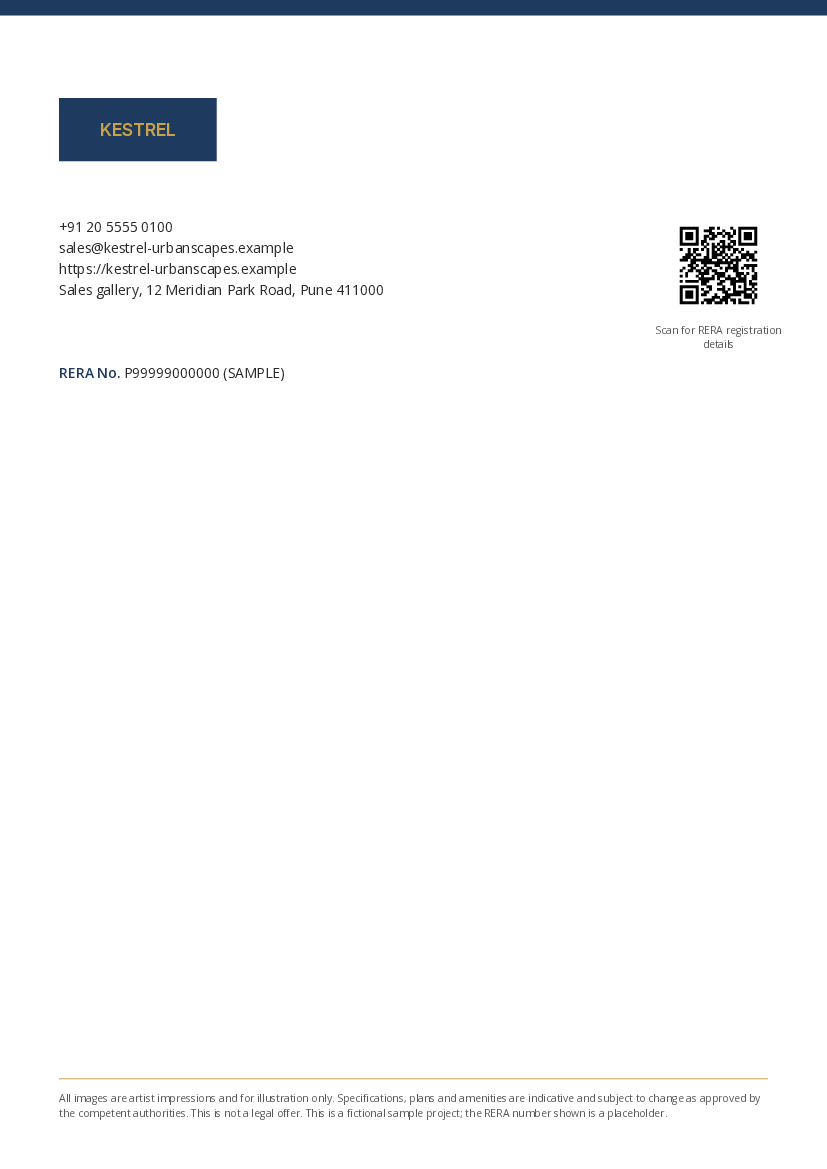
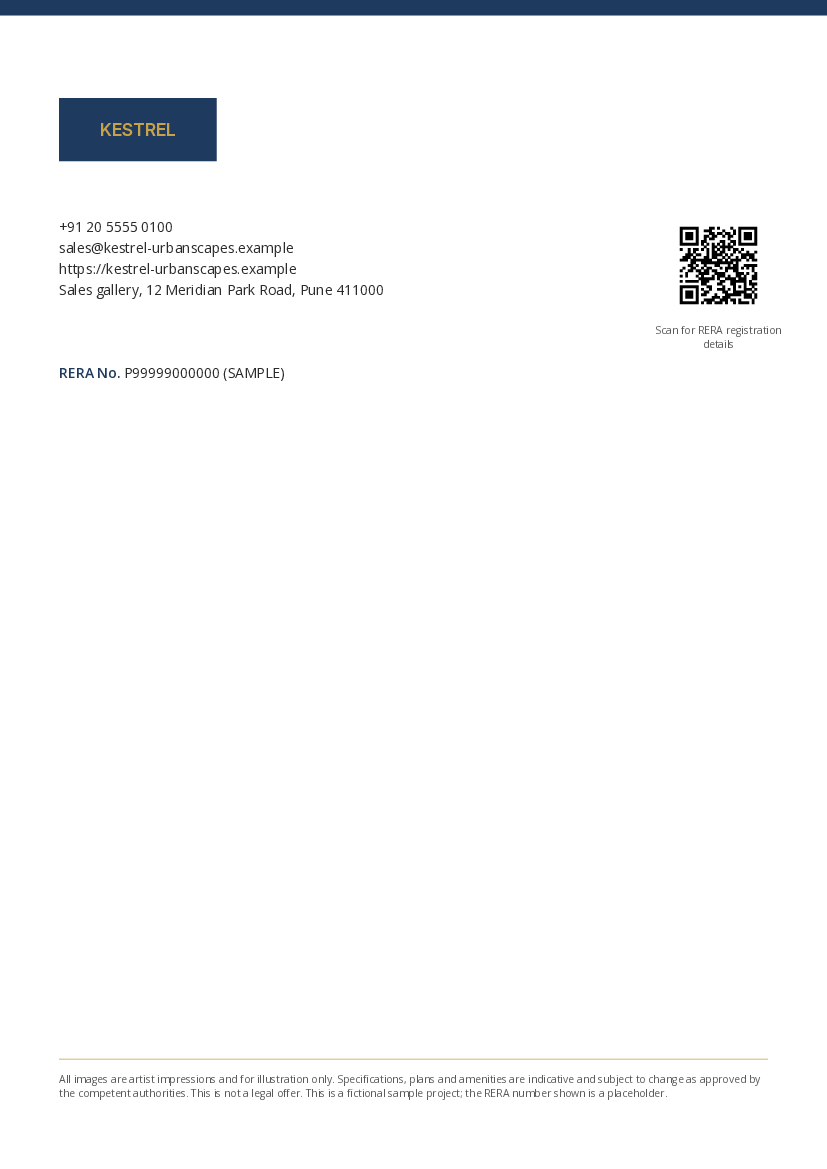
classic-8pp: every text slot fits its full char budget; Copywriter budgets lowered, verbatim heights raised, pages re-flowed

Changed region(s): [[0.0605, 0.8931, 0.9069, 0.9547]]

diff --git a/templates/classic-8pp/brochure.css b/templates/classic-8pp/brochure.css
@@ -60,9 +60,9 @@ body {
 .prefix { font-weight: 600; color: var(--primary); }
 
 /* Per-slot adjustments */
-#slot-cover_title { color: #ffffff; }
+#slot-cover_title { color: #ffffff; display: flex; flex-direction: column; justify-content: flex-end; }
 #slot-cover_tagline { color: var(--accent); font-weight: 400; }
 #slot-cover_rera_line { color: #e6e9ef; }
-#slot-overview_highlights ul, #slot-amenities_list ul { columns: 2; column-gap: 8mm; }
+#slot-overview_highlights ul, #slot-amenities_list ul, #slot-location_landmarks ul { columns: 2; column-gap: 8mm; }
 #slot-static-qr-label { text-align: center; }
 #slot-disclaimer p { border-top: 0.5pt solid var(--accent); padding-top: 3mm; }  /* between the marks, so it is measured */

diff --git a/tests/unit/test_agent_copywriter.py b/tests/unit/test_agent_copywriter.py
@@ -16,8 +16,8 @@ from tests.support import GOOD_COPY as GOOD, qa_issue, sample_state
 ROOT = Path(__file__).parents[2]
 TEMPLATE = load_sample_data().template
 OWNED = {
-    "cover_tagline": 90, "overview_headline": 60, "overview_intro": 600, "overview_highlights": 240,
-    "amenities_blurb": 250, "plan_note": 160, "about_headline": 60,
+    "cover_tagline": 70, "overview_headline": 50, "overview_intro": 310, "overview_highlights": 120,
+    "amenities_blurb": 100, "plan_note": 140, "about_headline": 50,
 }
 
 def inputs(**changes) -> CopyInputs:
@@ -147,7 +147,7 @@ def play(*answers, **changes):
     return copywriter_agent(inputs(**changes), llm), llm
 
 
-TOO_LONG = "A" * 91  # cover_tagline has 90 characters
+TOO_LONG = "A" * 71  # cover_tagline has 70 characters
 
 
 def test_an_over_budget_slot_is_asked_for_again_and_the_second_text_is_used():
@@ -178,7 +178,7 @@ def test_the_second_call_sends_only_the_failing_slots_with_the_reason_for_each_a
     assert set(second["problems"]) == {"plan_note"}  # wrong in content: written again with the reason
     assert "empty" in second["problems"]["plan_note"]
     assert set(second["shorten"]) == {"cover_tagline"}  # only too long: edited, with its previous text
-    assert "91" in second["shorten"]["cover_tagline"]["problem"] and "90" in second["shorten"]["cover_tagline"]["problem"]
+    assert "71" in second["shorten"]["cover_tagline"]["problem"] and "70" in second["shorten"]["cover_tagline"]["problem"]
     assert {k: v for k, v in second.items() if k not in ("slots", "problems", "shorten")} == {k: v for k, v in first.items() if k != "slots"}
 
 
@@ -209,7 +209,7 @@ def test_a_slot_that_fails_twice_is_left_out_and_exactly_one_warning_says_which_
     assert len(llm.calls) == 2  # asked once more, not again
     assert set(copy) == set(OWNED) - {"cover_tagline"}
     (message,) = warnings(caplog)
-    assert "cover_tagline" in message and "91 characters, the limit is 90" in message
+    assert "cover_tagline" in message and "71 characters, the limit is 70" in message
 
 
 def test_several_slots_that_fail_twice_share_one_warning(caplog):
@@ -224,7 +224,7 @@ def test_several_slots_that_fail_twice_share_one_warning(caplog):
 def test_the_reason_in_the_warning_is_the_one_from_the_second_attempt(caplog):
     play({**GOOD, "cover_tagline": TOO_LONG}, {**GOOD, "cover_tagline": "Heights in Zorbaville"})
     (message,) = warnings(caplog)
-    assert "Zorbaville" in message and "91 characters" not in message
+    assert "Zorbaville" in message and "71 characters" not in message
 
 
 def test_no_warning_when_every_slot_passes(caplog):
@@ -252,7 +252,7 @@ def test_a_client_error_on_the_second_call_keeps_the_slots_that_passed_and_one_w
     copy, llm = play({**GOOD, "cover_tagline": TOO_LONG}, LLMRateLimited("rate limit"))
     assert copy == {k: v for k, v in GOOD.items() if k != "cover_tagline"}
     (message,) = warnings(caplog)
-    assert "cover_tagline" in message and "91 characters" in message and "rate limit" in message
+    assert "cover_tagline" in message and "71 characters" in message and "rate limit" in message
     assert "plan_note" not in message  # it passed
 
 
@@ -406,7 +406,7 @@ def test_two_bad_replies_to_the_second_attempt_keep_what_passed_and_leave_the_re
     assert len(llm.calls) == 3
     assert copy == {k: v for k, v in GOOD.items() if k != "cover_tagline"}
     (message,) = warnings(caplog)
-    assert "cover_tagline" in message and "91 characters" in message and "again" in message
+    assert "cover_tagline" in message and "71 characters" in message and "again" in message
 
 
 def test_only_a_bad_reply_is_asked_again_a_rate_limit_or_http_error_is_not():
@@ -421,8 +421,8 @@ def test_the_prompt_explains_previous_error():
 
 # --- word limits in the payload -------------------------------------------------------------------------------------------
 
-MAX_WORDS = {"cover_tagline": 12, "overview_headline": 8, "overview_intro": 85, "overview_highlights": 34,
-             "amenities_blurb": 35, "plan_note": 22, "about_headline": 8}
+MAX_WORDS = {"cover_tagline": 10, "overview_headline": 7, "overview_intro": 44, "overview_highlights": 17,
+             "amenities_blurb": 14, "plan_note": 20, "about_headline": 7}
 
 
 def test_each_slot_is_sent_with_max_words_derived_from_its_char_budget():
@@ -454,7 +454,7 @@ def test_a_slot_that_fails_only_on_length_is_sent_back_with_its_previous_text_to
     _, llm = play({**GOOD, "cover_tagline": TOO_LONG}, GOOD)
     second = llm.calls[1][1]
     assert second["shorten"] == {"cover_tagline": {"previous_text": TOO_LONG, "problem": second["shorten"]["cover_tagline"]["problem"]}}
-    assert "91 characters" in second["shorten"]["cover_tagline"]["problem"]
+    assert "71 characters" in second["shorten"]["cover_tagline"]["problem"]
     assert "problems" not in second
     assert [s["id"] for s in second["slots"]] == ["cover_tagline"]
 
@@ -499,7 +499,7 @@ def test_a_slot_still_over_budget_after_the_retry_is_trimmed_to_whole_sentences_
     copy, llm = play({**GOOD, "overview_intro": long_intro(8)}, {**GOOD, "overview_intro": long_intro(12)})
     trimmed = copy["overview_intro"]
     assert len(llm.calls) == 2
-    assert trimmed == expected_trim(12) and len(trimmed) <= 600 < len(trimmed + " " + SENTENCE)
+    assert trimmed == expected_trim(12) and len(trimmed) <= 310 < len(trimmed + " " + SENTENCE)
     assert trimmed.endswith(".")
     assert warnings(caplog) == []
     assert any("trimmed slot overview_intro" in r.getMessage() and r.levelno == logging.INFO for r in caplog.records)

diff --git a/tests/integration/test_full_budget_fit.py b/tests/integration/test_full_budget_fit.py
@@ -1,0 +1,75 @@
+"""Every text slot's height fits its full char_budget: filler of exactly char_budget characters, rendered with the real
+fonts and template and measured with the same marks as the overflow check."""
+import importlib
+import math
+from pathlib import Path
+
+import pytest
+
+from brochure.contracts.spec import BrochureSpec, PageSpec, SlotFill
+from brochure.pipeline.stubs import load_sample_data
+from brochure.print_config import PRINT
+from brochure.render.html import PX_PER_MM, build_html, load_template
+from tests.support import filler_text, sample_state
+
+pytestmark = pytest.mark.integration
+
+ROOT = Path(__file__).parents[2]
+TEMPLATE = load_sample_data().template
+TEXT_SLOTS = [s.id for s in TEMPLATE.slots if s.type == "text"]
+# Slots written line by line, at the average line length of the sample: (characters per line, label of each line).
+LINED = {
+    "overview_highlights": (30, ""),
+    "location_landmarks": (29, ""),
+    "amenities_list": (16, ""),
+    "config_table": (23, ""),
+    "specs_list": (49, "Flooring: "),
+    "contact_block": (33, ""),
+}
+
+
+def full_budget_text(slot_id: str, chars: int) -> str:
+    line, label = LINED.get(slot_id, (None, ""))
+    return filler_text(chars, line, label)
+
+
+def measured(page_anchors: list[dict], slot_id: str) -> float:
+    """The slot's text height in mm, from its marks; infinite when the text ran off its page, which loses the end mark."""
+    for anchors in page_anchors:
+        start, end = anchors.get(f"start-{slot_id}"), anchors.get(f"end-{slot_id}")
+        if start is not None:
+            return (end[1] - start[1]) / PX_PER_MM if end is not None else math.inf
+    return math.inf
+
+
+def full_budget_heights(budgets: dict[str, int] | None = None) -> dict[str, float]:
+    """slot id -> measured mm of each text slot filled to its char_budget (or to the budget given here)."""
+    from weasyprint import HTML
+
+    state = sample_state()
+    template = load_template("classic-8pp")
+    pages = []
+    for number in range(1, 9):
+        slots = {s.id: SlotFill(text=full_budget_text(s.id, (budgets or {}).get(s.id, s.char_budget)))
+                 for s in template.slots.slots if s.page == number and s.type == "text"}
+        pages.append(PageSpec(layout_id=f"p{number}", slots=slots))
+    spec = BrochureSpec(template_id="classic-8pp", pages=pages)
+    html = build_html(spec, state.brand_kit, [], ROOT / "sample" / "images", brand_dir=ROOT / "sample")
+    anchors = [p.anchors for p in HTML(string=html, base_url=str(template.directory)).render().pages]
+    return {slot_id: measured(anchors, slot_id) for slot_id in TEXT_SLOTS}
+
+
+@pytest.fixture(scope="module")
+def heights():
+    try:
+        importlib.import_module("weasyprint")
+    except Exception as exc:  # ModuleNotFoundError, or OSError when the Pango libraries are missing
+        pytest.skip(f"WeasyPrint is not importable ({type(exc).__name__}). Run `brochure doctor` for the fix.")
+    return full_budget_heights()
+
+
+@pytest.mark.parametrize("slot_id", TEXT_SLOTS)
+def test_full_budget_text_fits_the_slot(heights, slot_id):
+    slot = TEMPLATE.get(slot_id)
+    assert heights[slot_id] <= slot.height_mm + PRINT.text_overflow_tolerance_mm, (
+        f"{slot.char_budget} characters are {heights[slot_id]:.1f} mm tall in a {slot.height_mm:g} mm slot")

diff --git a/tests/support.py b/tests/support.py
@@ -89,8 +89,8 @@ GOOD_COPY = {
     "overview_intro": "Aurelia Heights is a pair of residential towers in Pune with 2 and 3 BHK homes. The towers stand around a "
     "landscaped podium garden, and the plans put living rooms and bedrooms on the sides with the most daylight. The metro "
     "station, schools and a hospital are close by, so the daily routine stays short.",
-    "overview_highlights": "Two towers of 2 and 3 BHK homes\nLandscaped podium garden\n1.2 km from Meridian Metro Station\nSchools and a hospital nearby",
-    "amenities_blurb": "From the infinity pool to the co-working lounge, every amenity is planned for daily use rather than for show.",
+    "overview_highlights": "Two towers, 2 and 3 BHK homes\nLandscaped podium garden\n1.2 km from Meridian Metro Station\nSchools and a hospital nearby",
+    "amenities_blurb": "From the infinity pool to the co-working lounge, every amenity is planned for daily use.",
     "plan_note": "Areas shown are carpet areas. Furniture in the plans is indicative only.",
     "about_headline": "About Kestrel Urbanscapes",
 }
@@ -103,3 +103,33 @@ def _stub_renderer(state, llm):
 
 
 STUB_RENDERER = _stub_renderer  # for graph tests of real_agents() that must not need WeasyPrint
+
+
+_FILLER_WORDS = (
+    "the towers stand around a landscaped podium garden and the plans put living rooms and bedrooms on the sides with "
+    "the most daylight while the metro station schools and a hospital are close by so homes here suit families who want "
+    "green space and calm streets near the city"
+).split()
+
+
+def _filler_words(chars: int, start: int = 0) -> str:
+    """Exactly `chars` characters of ordinary words, with no space at either end."""
+    words = _FILLER_WORDS[start % len(_FILLER_WORDS):] + _FILLER_WORDS * (chars // 20 + 1)
+    text = " ".join(words)[:chars]
+    return text[:-1] + "s" if text.endswith(" ") else text
+
+
+def filler_text(chars: int, line_chars: int | None = None, label: str = "") -> str:
+    """Filler of exactly `chars` characters, newlines included: running text, or with line_chars, lines of that length
+    (the last may be shorter), each starting with `label` if given."""
+    if line_chars is None:
+        return _filler_words(chars)
+    lines, left = [], chars
+    while left > 0:
+        take = min(line_chars, left)
+        if left - take == 1:  # no room for a line after the newline
+            take = left
+        head = label if take > len(label) + 1 else ""
+        lines.append(head + _filler_words(take - len(head), start=len(lines) * 3))
+        left -= take + 1
+    return "\n".join(lines)

diff --git a/tests/unit/test_filler_text.py b/tests/unit/test_filler_text.py
@@ -1,0 +1,29 @@
+"""The filler the full-budget test renders: exact length, realistic words and lines."""
+import pytest
+
+from tests.support import filler_text
+
+
+@pytest.mark.parametrize("chars", [1, 2, 15, 40, 60, 599, 600, 1000])
+def test_running_filler_has_exactly_the_length_asked_for_and_no_space_at_its_ends(chars):
+    text = filler_text(chars)
+    assert len(text) == chars and text == text.strip() and "\n" not in text
+
+
+@pytest.mark.parametrize("chars, line", [(400, 29), (300, 16), (400, 23), (240, 30), (31, 15), (32, 15), (33, 15)])
+def test_lined_filler_counts_its_newlines_and_every_line_has_text(chars, line):
+    text = filler_text(chars, line)
+    lines = text.split("\n")
+    assert len(text) == chars
+    assert all(ln.strip() and ln == ln.strip() for ln in lines)
+    assert all(len(ln) == line for ln in lines[:-1]) and len(lines[-1]) <= line + 1
+
+
+def test_a_label_starts_each_line_and_is_counted():
+    text = filler_text(700, 49, label="Flooring: ")
+    assert len(text) == 700
+    assert all(ln.startswith("Flooring: ") for ln in text.split("\n"))
+
+
+def test_the_lines_are_not_all_the_same_words():
+    assert len(set(filler_text(400, 29).split("\n"))) > 5

diff --git a/tests/integration/test_render_brochure.py b/tests/integration/test_render_brochure.py
@@ -10,6 +10,7 @@ import pytest
 from PIL import Image
 from pypdf import PdfReader
 
+from brochure.agents.copywriter import owned_slots
 from brochure.contracts.manifest import ImageManifest
 from brochure.doctor import find_ghostscript
 from brochure.layout import load_layout_rules
@@ -222,10 +223,12 @@ def laid_out(sample, images):
     return template, anchors, text_heights(anchors, spec, template.slots)
 
 
-def test_no_text_slot_of_the_sample_is_under_60_percent_full(laid_out):
+def test_no_copywriter_slot_of_the_sample_is_under_60_percent_full(laid_out):
+    # Verbatim slots are not checked: their heights fit their full budgets (test_full_budget_fit.py), not the sample.
     template, _, heights = laid_out
-    assert heights
-    fill = {sid: h / template.slots.get(sid).height_mm for sid, h in heights.items()}
+    owned = {s.id for s in owned_slots(template.slots)}
+    assert owned <= set(heights)
+    fill = {sid: heights[sid] / template.slots.get(sid).height_mm for sid in owned}
     assert {sid: round(f, 2) for sid, f in fill.items() if f < 0.6} == {}
 
 

diff --git a/README.md b/README.md
@@ -177,7 +177,7 @@ the copywriter. Facts are strict, wording is free.
 
 | Written by the Copywriter (char budget) | Filled by code from the facts and the brand kit (char budget) |
 |---|---|
-| `cover_tagline` (90, 12 words), `overview_headline` (60, 8), `overview_intro` (600, 85), `overview_highlights` (240, 34), `amenities_blurb` (250, 35), `plan_note` (160, 22), `about_headline` (60, 8) | `cover_title` (40; the project name), `cover_rera_line` (60), `rera_number` (60), `location_address` (120), `location_landmarks` (400), `amenities_list` (300), `config_table` (400), `specs_list` (700), `about_text` (450), `contact_block` (200), `disclaimer` (500) |
+| `cover_tagline` (70, 10 words), `overview_headline` (50, 7), `overview_intro` (310, 44), `overview_highlights` (120, 17), `amenities_blurb` (100, 14), `plan_note` (140, 20), `about_headline` (50, 7) | `cover_title` (40; the project name), `cover_rera_line` (60), `rera_number` (60), `location_address` (120), `location_landmarks` (400), `amenities_list` (300), `config_table` (400), `specs_list` (700), `about_text` (450), `contact_block` (200), `disclaimer` (500) |
 
 The pipeline step (`pipeline/real.py`) returns the verbatim slots plus whatever the Copywriter wrote as `slot_copy`.
 
@@ -553,13 +553,19 @@ first and second colours are used. Brand colours and font families reach the CSS
   a light background. On an edge that bleeds, the caption sits 13 mm in from the drawn edge (bleed + safe margin).
 - An image slot the layout left unfilled: a light neutral frame with "Image needed".
 - Text: newlines become line breaks; `list` slots become one list item per line (two columns for
-  `overview_highlights` and `amenities_list`; in `specs_list` the text before ": " is set as a label). `rera_number`
+  `overview_highlights`, `amenities_list` and `location_landmarks`; in `specs_list` the text before ": " is set as a label). `rera_number`
   is printed after "RERA No.". Text boxes never clip.
 - Logos: the brand kit's `logo_path` (SVG or PNG, relative to `brand_dir`, the `sample/` folder in the pipeline) when
   the file exists, otherwise the company name in the heading font. Text inside an SVG logo must name a bundled family,
   or WeasyPrint embeds a system font; the sample logo's text is set in Inter.
 - QR: the `qrcode` package, vector SVG (one path, no raster), error correction M, quiet zone of 4 modules, at the
   slot's 25 mm.
+
+**Every text slot fits its full `char_budget`.** `tests/integration/test_full_budget_fit.py` fills each text slot with
+filler of exactly `char_budget` characters (realistic words; list slots and `contact_block` in lines of the sample's
+average length), renders it with the real fonts and template, and asserts no overflow. So the budget of a Copywriter
+slot is what fits its height, and the height of a verbatim slot is what fits its budget. `location_landmarks` is set in two
+columns so its full budget fits on page 3. A one-line `cover_title` sits at the foot of its slot, on the tagline.
 
 **Text overflow.** WeasyPrint's public `Page.anchors` gives the position of every element with an `id`. Each text slot
 holds an empty start mark and end mark; the distance between them is the height of its text. Text taller than the slot
@@ -590,7 +596,7 @@ sample and check the page count, every page's boxes, that only Inter and Open Sa
 (RERA number on pages 1 and 8, project name on page 1, disclaimer on page 8, "Artist's impression" on exactly the
 pages with a render, the section titles, the QR label), the 8 PNGs (trim size within 1 px, no crop-mark black in the
 corners), that the hero reaches the bleed edge on page 1 (on a MediaBox rendering of page 1 that the test makes itself),
-that the cover caption shows, that no text slot of the sample is under 60% full, and the measured gaps:
+that the cover caption shows, that no Copywriter slot of the sample is under 60% full, and the measured gaps:
 
 ```
 ~/.venvs/brochure/bin/python -m pytest tests/integration/test_render_brochure.py -rs
@@ -775,7 +781,7 @@ Full rules are in [CONTRIBUTING.md](CONTRIBUTING.md).
 - The copy keeps curly quotes and apostrophes and en and em dashes; Inter and Open Sans have those glyphs. A character the bundled fonts lack would fall back to a system font; the integration test only checks the sample. Typographic spaces and hyphens are normalised to plain ones.
 - The Copywriter does not see the brief's free-text prompt, so the user's emphasis (for example "the short walk to the station") does not reach the copy.
 - The PDF is RGB. CMYK conversion with Ghostscript is not built.
-- The text slot heights are sized to the sample's text plus about 20%, and the char budgets were not changed, so text near its budget no longer fits on most text slots: it is reported as `render.text_overflow`. A verbatim slot cannot be fixed by the copywriter, so its overflow ends up in `spec.qa_warnings`.
-- Pages 2, 5 and 7 leave white space at the foot: their images are as large as the sample's pixels allow at 300 DPI, or as the design keeps them (`about_img` is 88 mm wide; floor plans stay square).
+- Verbatim text is not checked against its `char_budget`. A list much longer than its budget can run off the page; WeasyPrint then loses the slot's end mark and the render stops with an error instead of reporting overflow.
+- Pages 2 and 7 leave white space at the foot: their images are as large as the sample's pixels allow at 300 DPI, or as the design keeps them (`about_img` is 88 mm wide). Short verbatim text leaves space inside its slot, because the slot fits the full budget.
 - WeasyPrint is pinned to `weasyprint==70.0` because the BleedBox finisher edits WeasyPrint's PDF objects (pydyf)
   directly. Check the boxes again (the integration tests) before moving to another version.

diff --git a/docs/CHANGELOG.md b/docs/CHANGELOG.md
@@ -2,6 +2,48 @@
 
 Newest entry first.
 
+## 2026-11-03: classic-8pp text slots fit their full budgets
+
+**Shared contract: `templates/classic-8pp/slots.json` changed. Please review.** Rule: every text slot's height fits its
+full `char_budget`, enforced by `tests/integration/test_full_budget_fit.py`. Only these 16 values changed.
+
+Copywriter slots keep their heights; the budget drops to the largest multiple of 10 that fits. `max_words` follows.
+
+| Slot | Page | Height (mm) | `char_budget` | `max_words` |
+|---|---|---|---|---|
+| `cover_tagline` | 1 | 7 | 90 -> 70 | 12 -> 10 |
+| `overview_headline` | 2 | 14 | 60 -> 50 | 8 -> 7 |
+| `overview_intro` | 2 | 19 | 600 -> 310 | 85 -> 44 |
+| `overview_highlights` | 2 | 17 | 240 -> 120 | 34 -> 17 |
+| `amenities_blurb` | 4 | 7 | 250 -> 100 | 35 -> 14 |
+| `plan_note` | 5 | 5 | 160 -> 140 | 22 -> 20 |
+| `about_headline` | 7 | 14 | 60 -> 50 | 8 -> 7 |
+
+Verbatim slots keep their budgets; the height rises until full-budget text fits.
+
+| Slot | Page | `char_budget` | Height (mm) |
+|---|---|---|---|
+| `cover_title` | 1 | 40 | 14 -> 24 |
+| `location_address` | 3 | 120 | 7 -> 12 |
+| `amenities_list` | 4 | 300 | 33 -> 61 |
+| `config_table` | 5 | 400 | 17 -> 114 |
+| `specs_list` | 6 | 700 | 68 -> 115 |
+| `about_text` | 7 | 450 | 19 -> 27 |
+| `rera_number` | 8 | 60 | 8 -> 11 |
+| `contact_block` | 8 | 200 | 30 -> 32 |
+| `disclaimer` | 8 | 500 | 13 -> 18 |
+
+`cover_rera_line` (5 mm) and `location_landmarks` (50 mm) already fit and did not change: `location_landmarks` fits
+because it is now set in two columns (CSS).
+
+- `positions.json` re-flowed; the disclaimer stays at the foot of page 8 (269 to 287 mm). Page 5 now runs title, plans,
+  note, configurations, so a short list leaves no gap above another block. The cover band starts at 235 mm.
+- A one-line `cover_title` sits at the foot of its slot, on the tagline.
+- `sample/stub_copy.json` shortened to fit: `overview_highlights` and `amenities_blurb`.
+- The integration test that no text slot of the sample is under 60% full now covers Copywriter slots only: a verbatim
+  slot's height now follows its budget, not the sample.
+- `sample/pages/` regenerated.
+
 ## 2026-11-03: classic-8pp design pass
 
 **Shared contract: `templates/classic-8pp/slots.json` changed. Please review.** No slot added or removed, no char budget
